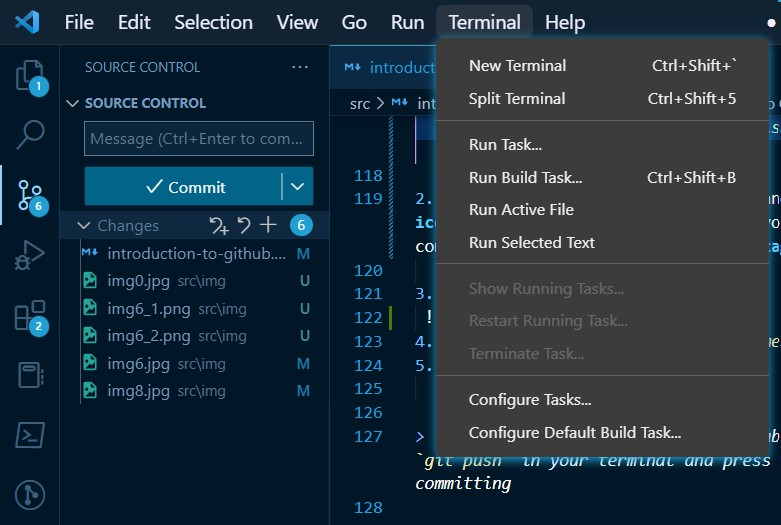
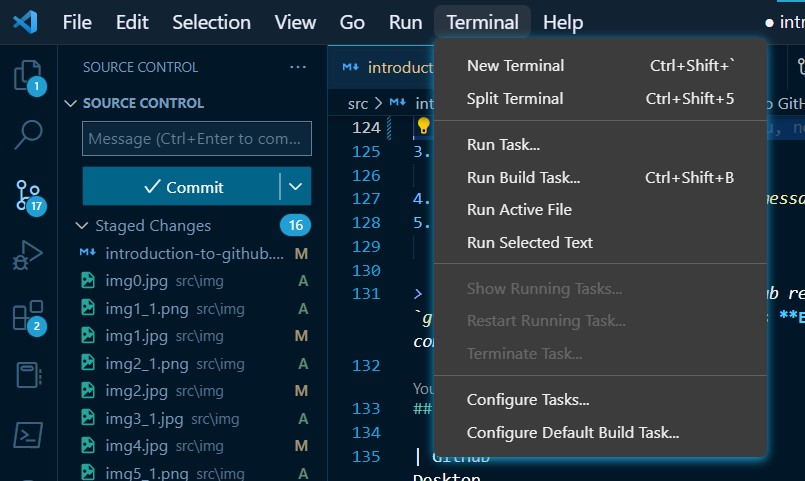
cleaned for second review

diff --git a/src/introduction-to-github.md b/src/introduction-to-github.md
@@ -43,7 +43,7 @@ Although GitHub is not the only code hosting platform on the web, it possess sev
 
 - GitHub lets you and others work together on projects from anywhere around the world.
 - It makes it a lot easier for individuals and teams to use Git for version control and collaboration.
-- using GitHub, contributing to open source projects is made simpler
+- Using GitHub, contributing to open source projects is made simpler
 - GitHub keeps track of changes made to projects. This is especially helpful when collaborating with multiple people because you can determine who made what changes, when and where.
   > visit [opensource.guide](https://opensource.guide/starting-a-project/#:~:text=When%20a%20project%20is%20open,through%20an%20open%20source%20license.) to know more about open source projects
 
@@ -121,10 +121,11 @@ To commit after making changes;
    ![commit](img/img8.jpg)
    > I will be using Visual Studio Code as my IDE.
 2. Hover over the **Changes** panel and click the **plus icon**. This will prepare the files you edited for a commit. This process is known as **staging**.
-   ![commit](img/img8.jpg)
+   ![commit](img/img8_2.jpg)
 3. open your terminal
-   ![commit](img/img8_3.jpg)
-4. type `git commit -m "your commit message"`
+   ![commit](img/img8_3.png)
+4. type `git commit -m "your commit message"` into the opened terminal
+   ![commit](img/img9_1.jpg)
 5. Press enter
    ![commit](img/img9.jpg)
 
@@ -132,14 +133,14 @@ To commit after making changes;
 
 ## GitHub Desktop vs Github CLI
 
-| GitHub Desktop                                                                                                                                      | GitHub CLI                                                                    |
-| --------------------------------------------------------------------------------------------------------------------------------------------------- | ----------------------------------------------------------------------------- |
-| It is an application that enables interaction with GitHub via a GUI(graphical user interface) instead of using the command line or an IDE terminal. | It is an open-source tool for using GitHub from your computer's command line. |
-| It is used to complete most Git commands from your desktop with visual confirmation of the changes made.                                            | It is used to save time and avoid switching between contexts.                 |
+| GitHub Desktop                                                                                                                                        | GitHub CLI                                                                    |
+| ----------------------------------------------------------------------------------------------------------------------------------------------------- | ----------------------------------------------------------------------------- |
+| It is an application that enables interaction with GitHub via a GUI(graphical user interface) instead of using the command line or an IDE's terminal. | It is an open-source tool for using GitHub from your computer's command line. |
+| It is used to complete most Git commands from your desktop with visual confirmation of the changes made.                                              | It is used to save time and avoid switching between contexts.                 |
 
 ## Conclusion
 
-In this article, you have come to understand basic concepts and terminologies including
+In this article, you have come to understand basic processes and terminologies associated with GitHub including:
 
 - What GitHub is
 - Why GitHub is important
